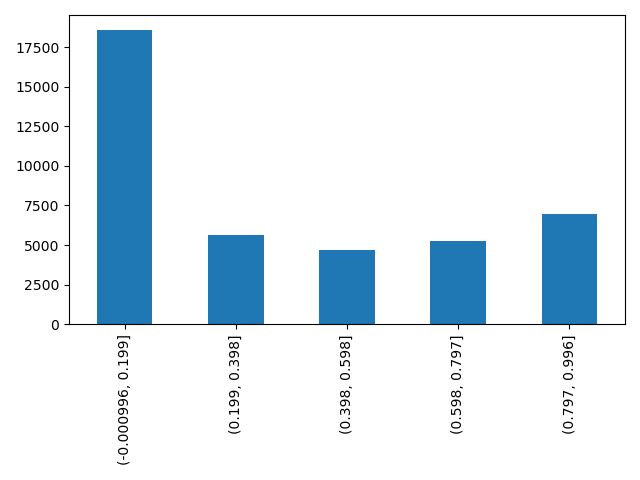
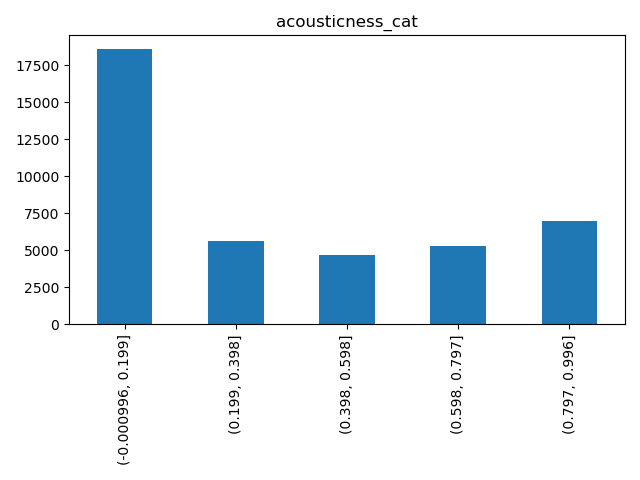
Modify exploratory histograms to include labels

diff --git a/data_preparation/discretization.py b/data_preparation/discretization.py
@@ -53,7 +53,7 @@ print(frame)
 
 for (column, type) in frame.dtypes.iteritems():
     
-    if "_cat" not in column:
+    if ("_cat" not in column):
         continue
     
     print(frame[column])
@@ -61,10 +61,12 @@ for (column, type) in frame.dtypes.iteritems():
 
     frame[column].value_counts()[cats].plot(kind='bar')
 
+    plt.title(column)
+
     #frame[column].plot(kind='bar') #, dpi=199, rot=0, figsize=(10,6)
 
     plt.tight_layout()
     plt.savefig(os.path.join(outpath_histograms, column + ".png"))
     plt.close()
 
-frame.to_csv(outpath, index=False)
+#frame.to_csv(outpath, index=False)

diff --git a/examples/describe.py b/examples/describe.py
@@ -1,0 +1,11 @@
+import sys
+import pandas as pd
+import matplotlib.pyplot as plt
+
+print(sys.argv[1])
+
+df = pd.read_csv(sys.argv[1])
+
+print(len(list(df.columns)))
+
+print(df['hit'].value_counts())
